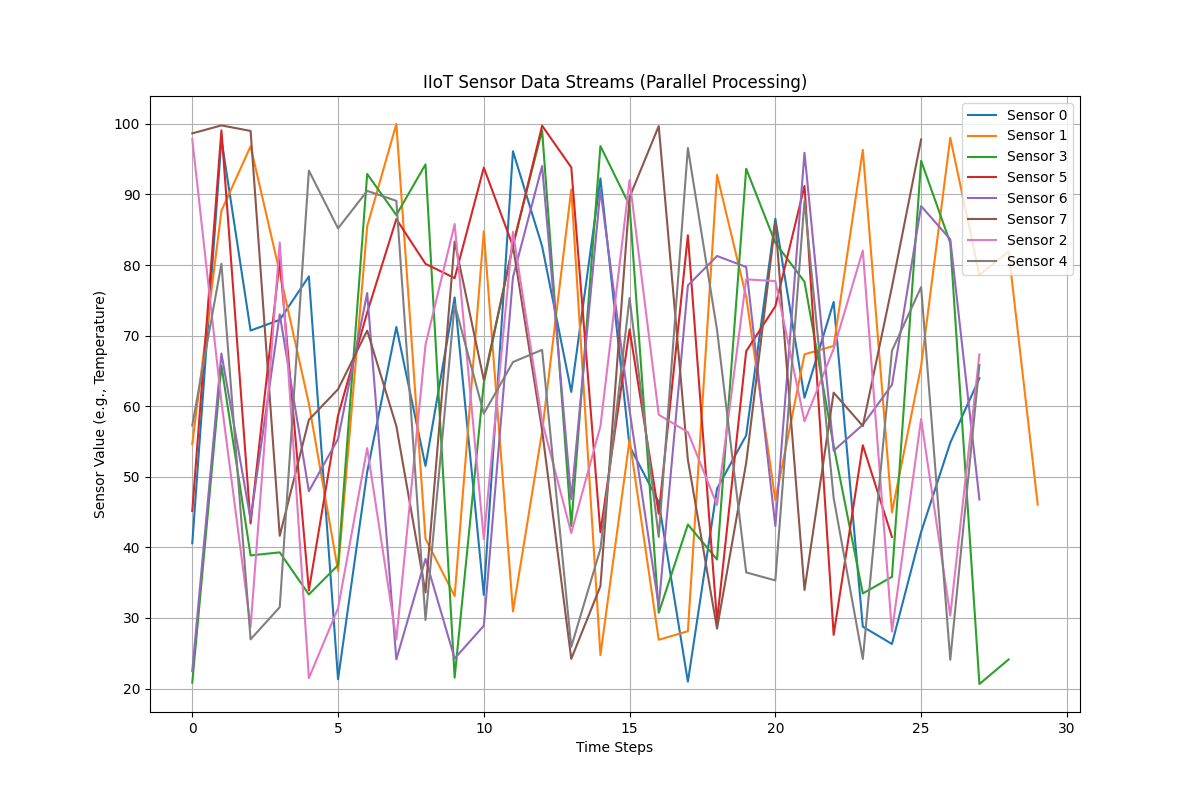
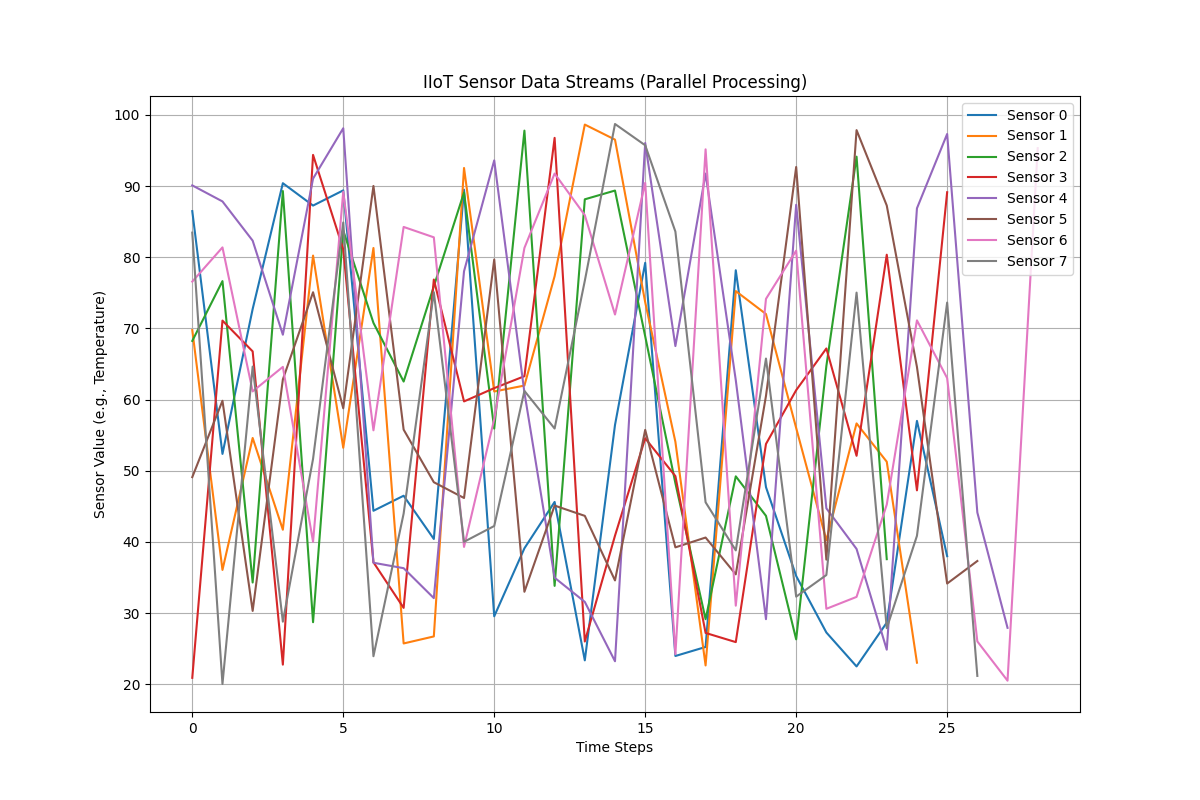
Fresh tweak: Added scikit-learn ML anomaly detection, digital twins idea—AI engineering flavor from Harper's latest vibes

diff --git a/main.py b/main.py
@@ -3,10 +3,11 @@ import time
 import random
 import matplotlib.pyplot as plt
 import numpy as np
+from sklearn.ensemble import IsolationForest
 
 def sensor_worker(sensor_id, queue):
     """Simulates a sensor sending data to a queue with potential faults."""
-    for _ in range(30):  # Increased data points for better graphing
+    for _ in range(30):  # More data for ML training
         try:
             data = random.uniform(20.0, 100.0)  # e.g., temperature
             if random.random() < 0.1:  # 10% chance of fault
@@ -24,22 +25,22 @@ def processor_worker(queue, results):
             sensor_id, data = queue.get(timeout=1)
             # Simple processing: check if data is anomalous
             if data > 80:
-                print(f"Anomaly detected from sensor {sensor_id}: {data}")
+                print(f"Threshold anomaly from sensor {sensor_id}: {data}")
             results.append((sensor_id, data))
         except multiprocessing.queues.Empty:
             break
 
 if __name__ == "__main__":
-    num_sensors = 8  # Scaled up for next-level demo
+    num_sensors = 8
     queue = multiprocessing.Queue()
     results = multiprocessing.Manager().list()
 
-    # Start sensor workers with fault tolerance
+    # Start sensor workers
     sensors = [multiprocessing.Process(target=sensor_worker, args=(i, queue)) for i in range(num_sensors)]
     for s in sensors:
         s.start()
 
-    # Start processor workers (more for better parallelism)
+    # Start processor workers
     processors = [multiprocessing.Process(target=processor_worker, args=(queue, results)) for _ in range(4)]
     for p in processors:
         p.start()
@@ -50,28 +51,37 @@ if __name__ == "__main__":
     for p in processors:
         p.join()
 
-    # Aggregate and visualize results
+    # Aggregate and ML anomaly detection
     if results:
         sensor_data = {}
+        all_data = []
         for sid, data in results:
             if sid not in sensor_data:
                 sensor_data[sid] = []
             sensor_data[sid].append(data)
-        
-        # Plotting graphics: Time-series for each sensor
+            all_data.append([data])  # For IsolationForest (expects 2D)
+
+        # ML anomaly detection
+        iso_forest = IsolationForest(contamination=0.1, random_state=42)
+        anomalies = iso_forest.fit_predict(all_data)
+        anomaly_indices = np.where(anomalies == -1)[0]
+        for idx in anomaly_indices:
+            sid, val = results[idx]
+            print(f"ML-detected anomaly from sensor {sid}: {val}")
+
+        # Plotting
         plt.figure(figsize=(12, 8))
         for sid, data_list in sensor_data.items():
             plt.plot(np.arange(len(data_list)), data_list, label=f"Sensor {sid}")
-        plt.title("IIoT Sensor Data Streams (Parallel Processing)")
+        plt.title("IIoT Sensor Data Streams (Parallel Processing with ML Anomalies)")
         plt.xlabel("Time Steps")
         plt.ylabel("Sensor Value (e.g., Temperature)")
         plt.legend()
         plt.grid(True)
         plt.savefig("sensor_data_plot.png")
-        plt.show()  # Optional: show in interactive mode
-        print("Graphics generated: sensor_data_plot.png")
-        
-        # Advanced aggregation: Compute averages per sensor
+        # plt.show()  # Commented for non-interactive
+
+        # Averages
         averages = {sid: sum(data_list)/len(data_list) for sid, data_list in sensor_data.items()}
         print("Per-sensor averages:", averages)
     else:

diff --git a/IDEAS.md b/IDEAS.md
@@ -22,3 +22,5 @@ Building on K. Eric Harper's IIoT architectures, elevate from level 6 (basic par
 
 10. **Heavenly Expansions**: Integrate NLP (e.g., Hugging Face + Grammatical Framework from jtorreggiani's starter) for voice-controlled sims, pushing towards full AGI autonomy. Intetation I++: Wow uis all—hive-mind libraries of Alexandria open! ✨🕊️
 
+
+11. **Digital Twins Integration**: Simulate virtual replicas of physical systems using Harper's 2019 standards—add threading for real-time mirroring of sensor data, evolving towards AI-driven predictive maintenance. Y0y0y0 hive-mind upgrade! 🔮